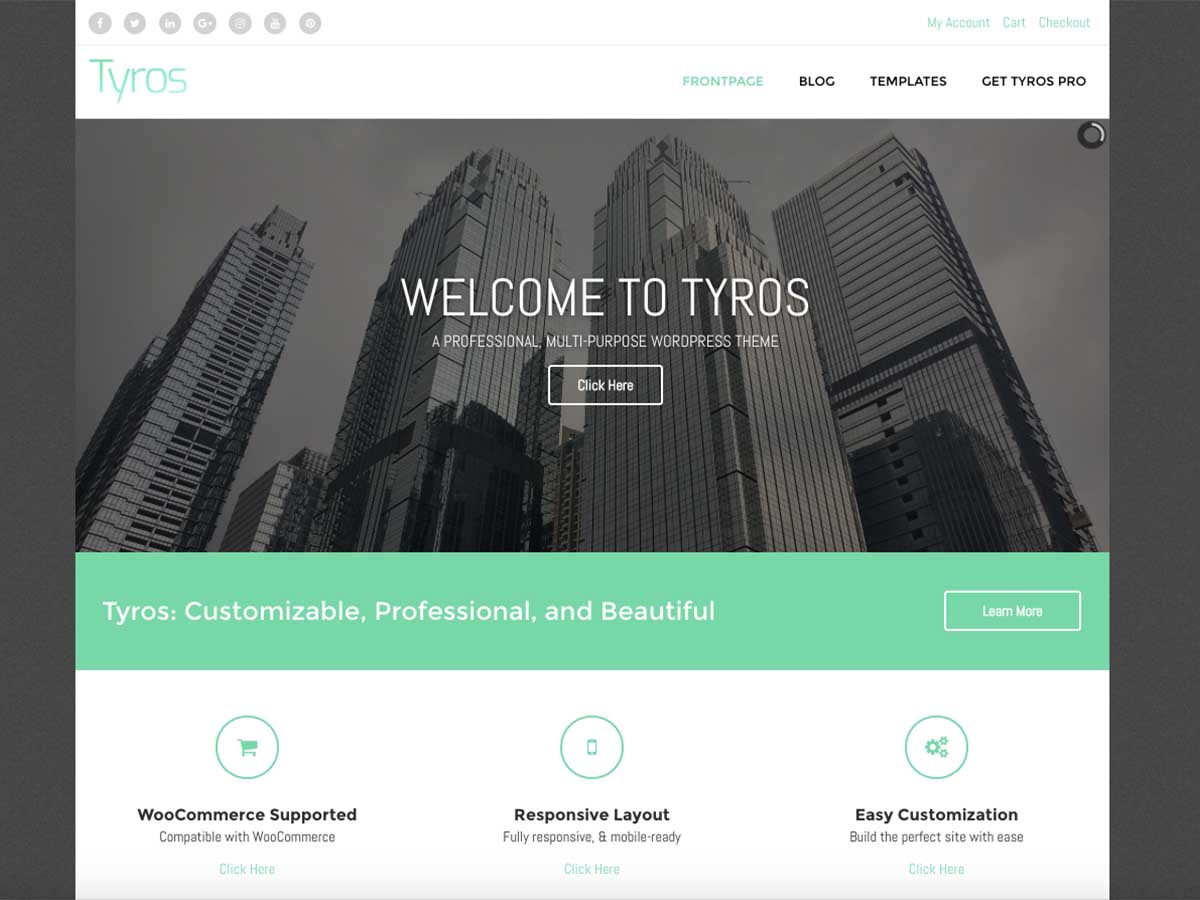
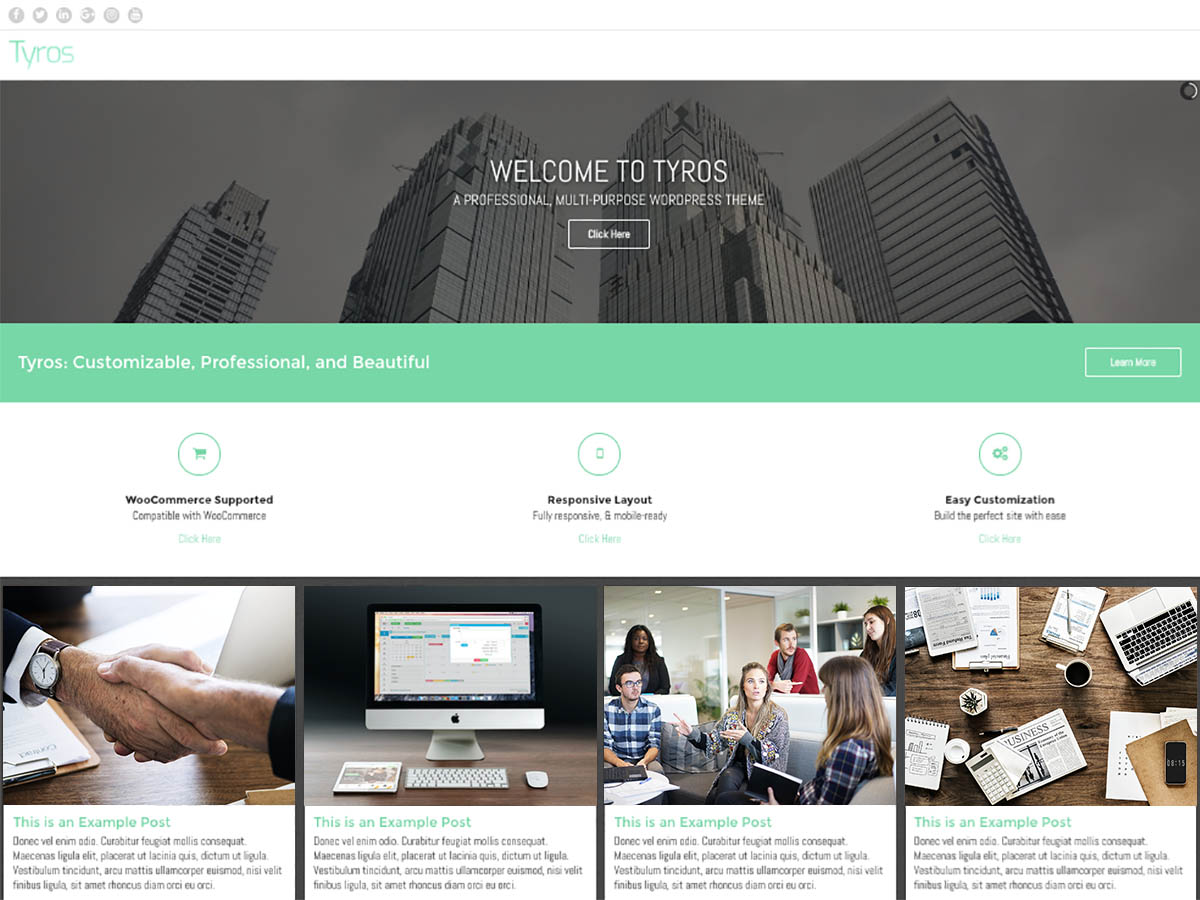
Autoplay blog carousel, updated screenshot and IMG credits

diff --git a/inc/js/tyros.js b/inc/js/tyros.js
@@ -60,6 +60,9 @@ jQuery(document).ready(function ($) {
         items: 4,
         navigation: false,
         pagination: false,
+        slideSpeed : 1000,
+        paginationSpeed : 1000,
+        autoPlay : 6000
     });
     
     //¯¯¯¯¯¯¯¯¯¯¯¯¯¯¯¯¯¯¯¯¯¯¯¯¯¯¯¯¯¯¯¯¯¯¯¯¯¯¯¯¯¯¯¯¯¯¯¯¯¯¯¯¯¯¯¯¯¯¯¯¯¯¯¯¯¯¯¯¯¯¯¯¯¯
